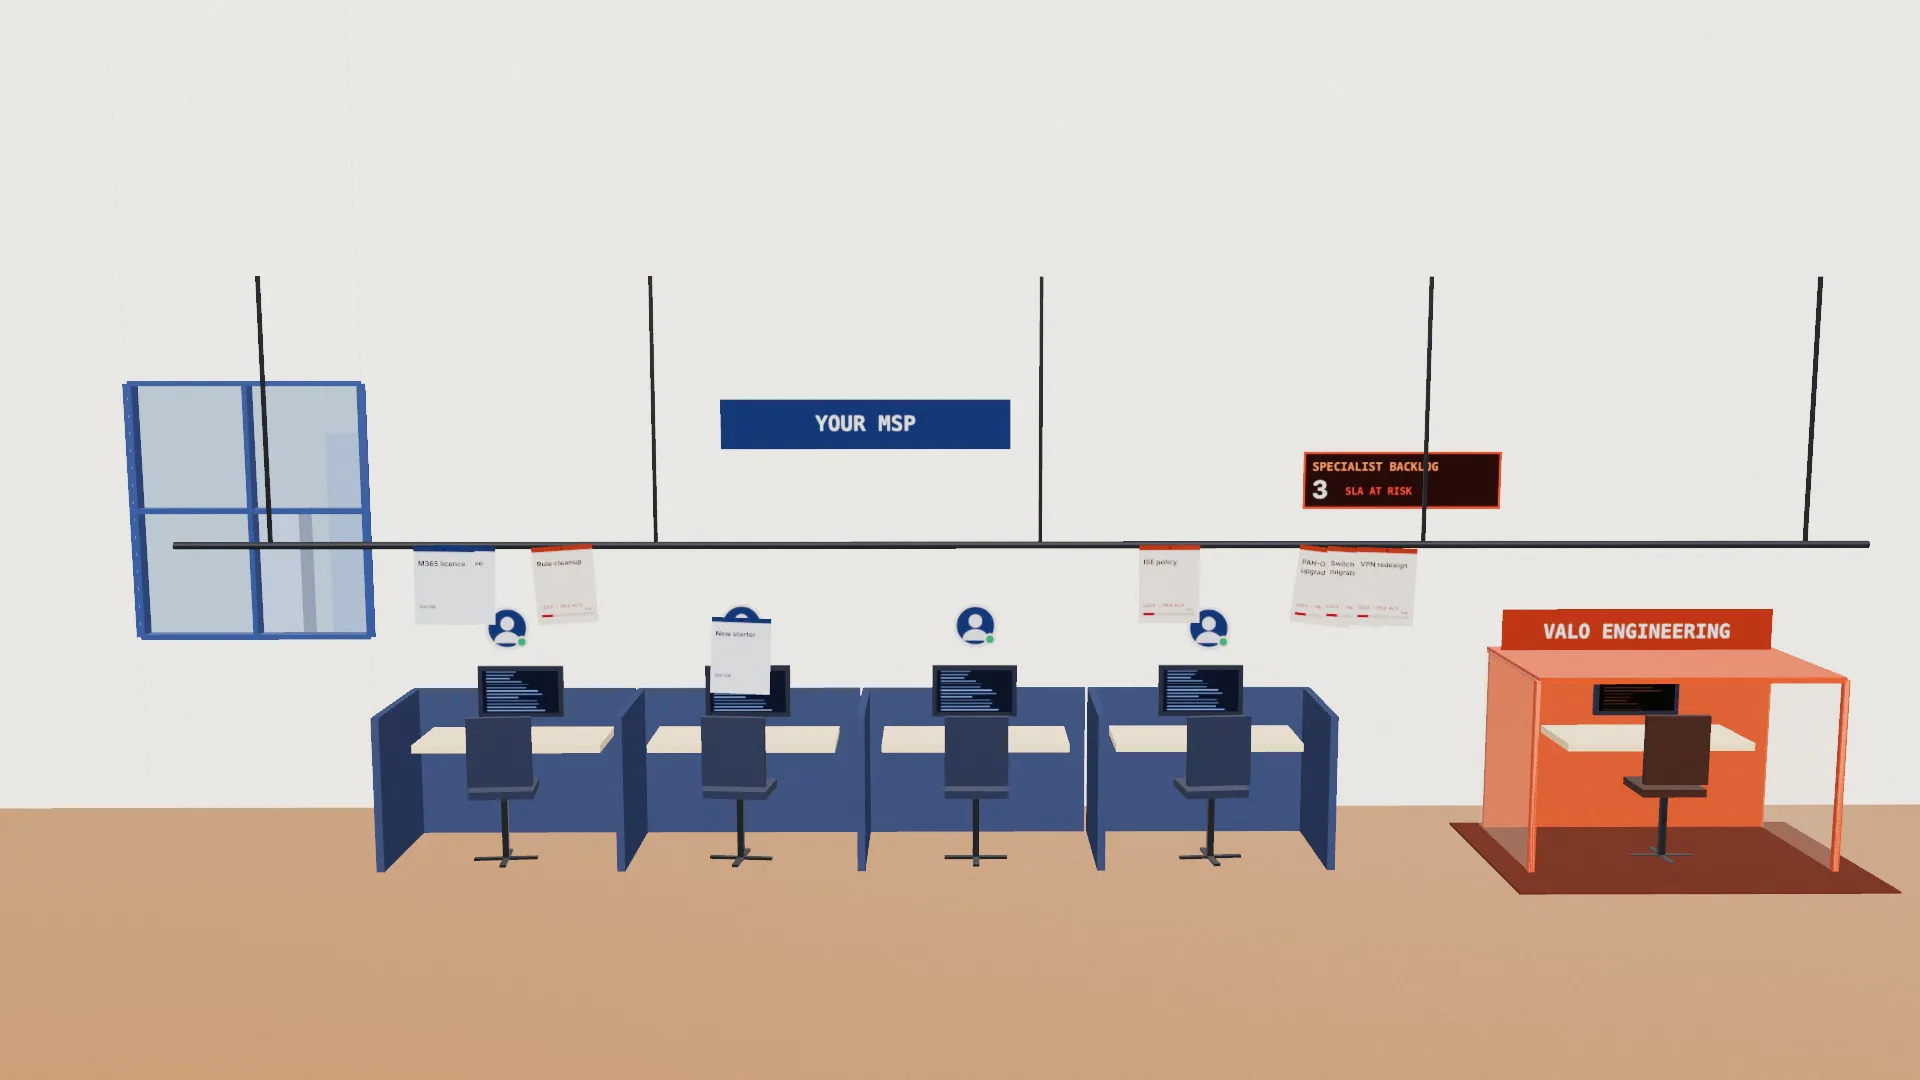
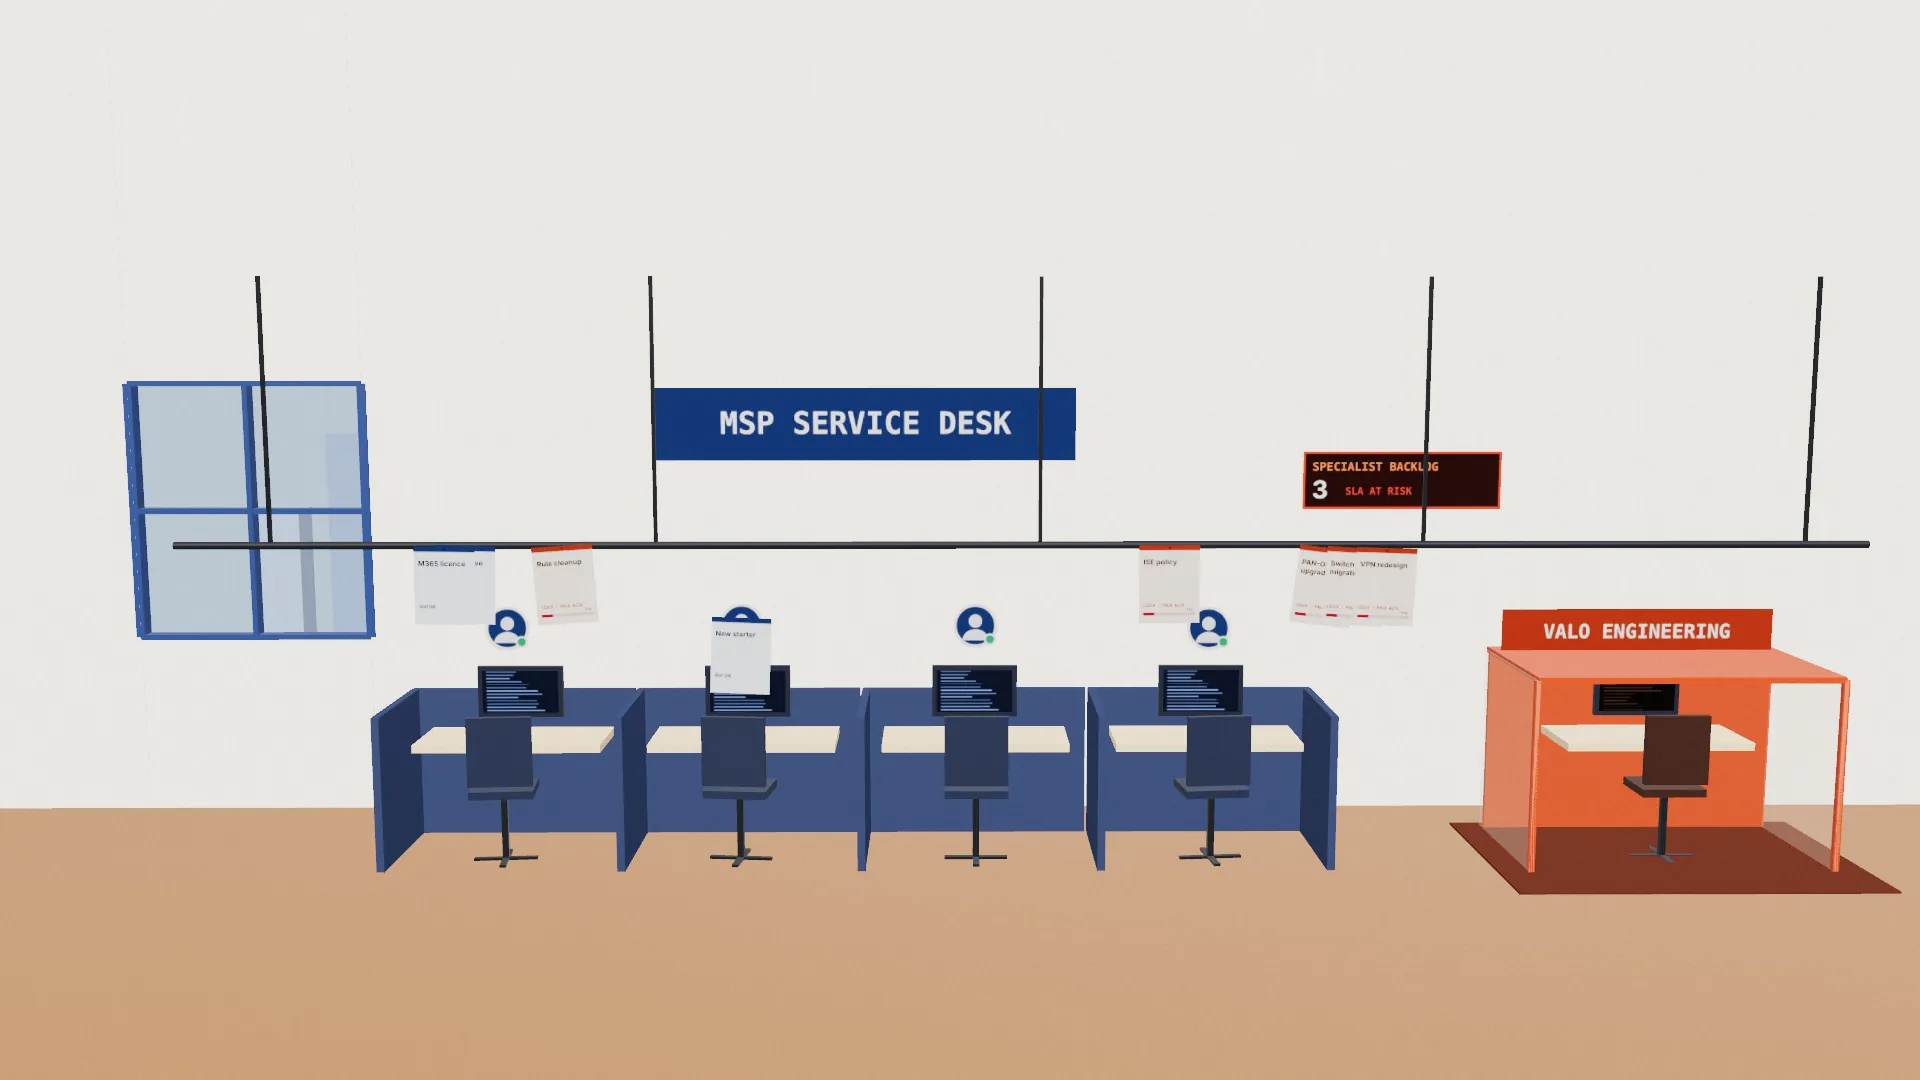
MSP rail: wall sign reads MSP SERVICE DESK
Claude-Session: https://claude.ai/code/session_01HRxsGLBN173gTRBUJFHDZX

Changed region(s): [[0.3438, 0.3361, 0.5625, 0.4278]]

diff --git a/index.html b/index.html
@@ -209,7 +209,7 @@
   <!-- 5. MSP partnership feature.
        Background still rendered from stage/scene-msp.js (v5, ticket rail) at t = 3.8 s, shift -0.12. -->
   <section class="h-msp" id="msp" aria-labelledby="h-msp-title" data-media-status="poster-preview">
-    <div class="h-msp-media" aria-hidden="true"><img src="/media/msp-feature.webp?v=20261106c" alt="" width="1920" height="1080" loading="lazy" /></div>
+    <div class="h-msp-media" aria-hidden="true"><img src="/media/msp-feature.webp?v=20261106d" alt="" width="1920" height="1080" loading="lazy" /></div>
     <div class="h-msp-shade" aria-hidden="true"></div>
     <div class="container h-msp-inner">
       <p class="h-label">For MSPs</p>

diff --git a/stage/scene-msp.js b/stage/scene-msp.js
@@ -108,7 +108,7 @@ export function mspScene(ctx) {
     return { beacon, bm, top: V(x, h, z) };
   });
   // wall signs
-  const mspSign = new THREE.Mesh(new THREE.PlaneGeometry(1.0, 0.172), crisp(THREE, texSign(THREE, 'YOUR MSP', '#24467f', '#ffffff'), { transparent: false }));
+  const mspSign = new THREE.Mesh(new THREE.PlaneGeometry(1.45, 0.25), crisp(THREE, texSign(THREE, 'MSP SERVICE DESK', '#24467f', '#ffffff'), { transparent: false }));
   mspSign.position.set(-0.42, 1.36, WALL_Z + 0.03); scene.add(mspSign);
 
   // ---------- the rail ----------
